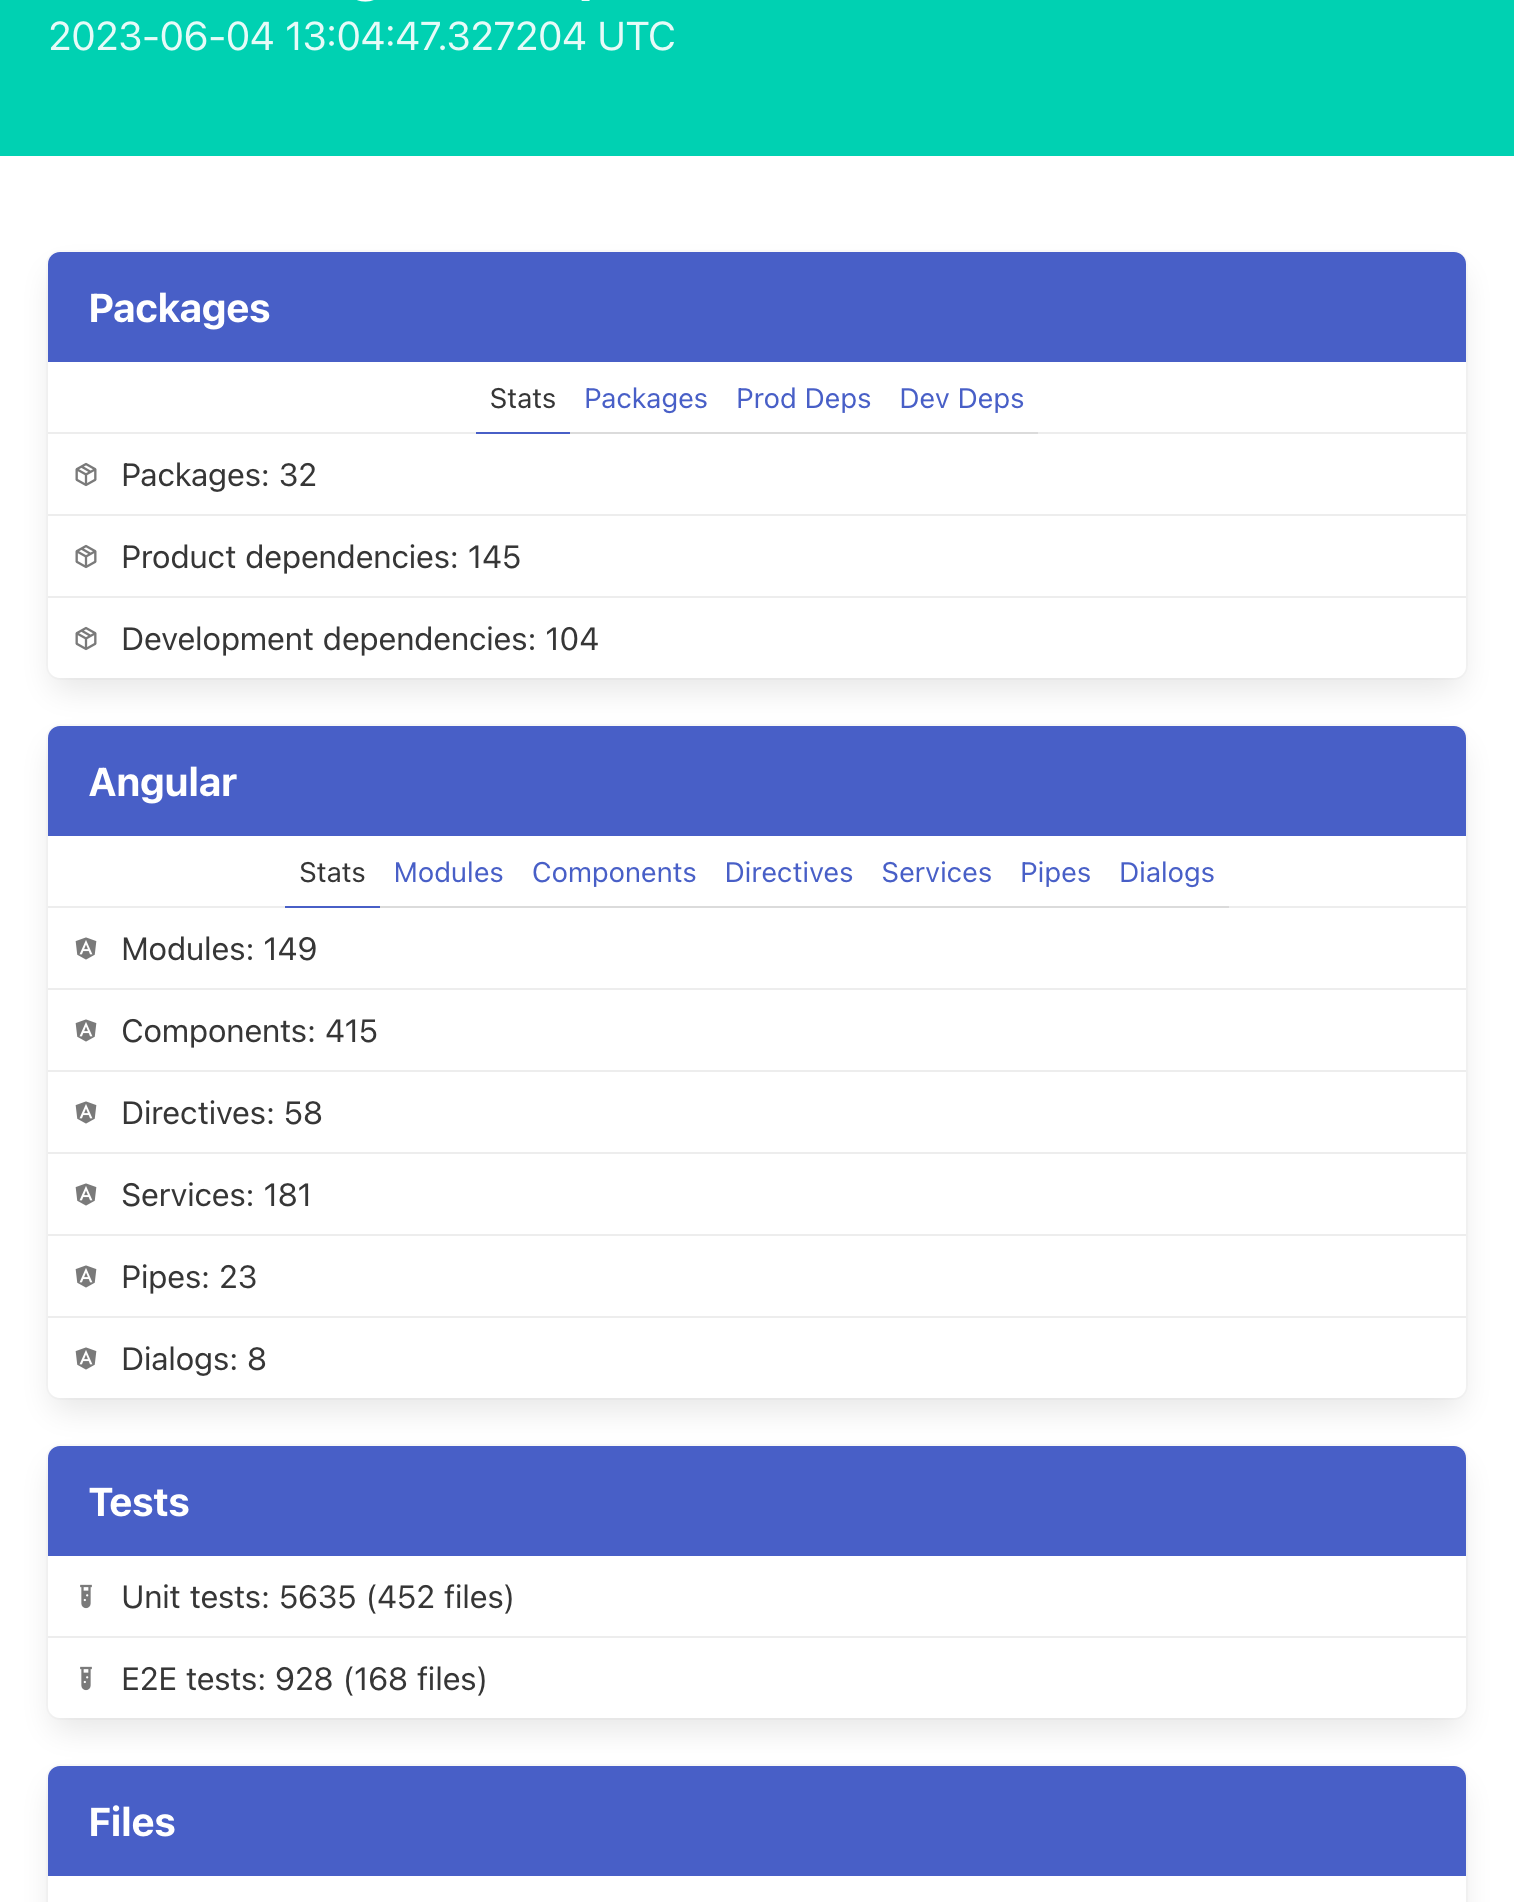
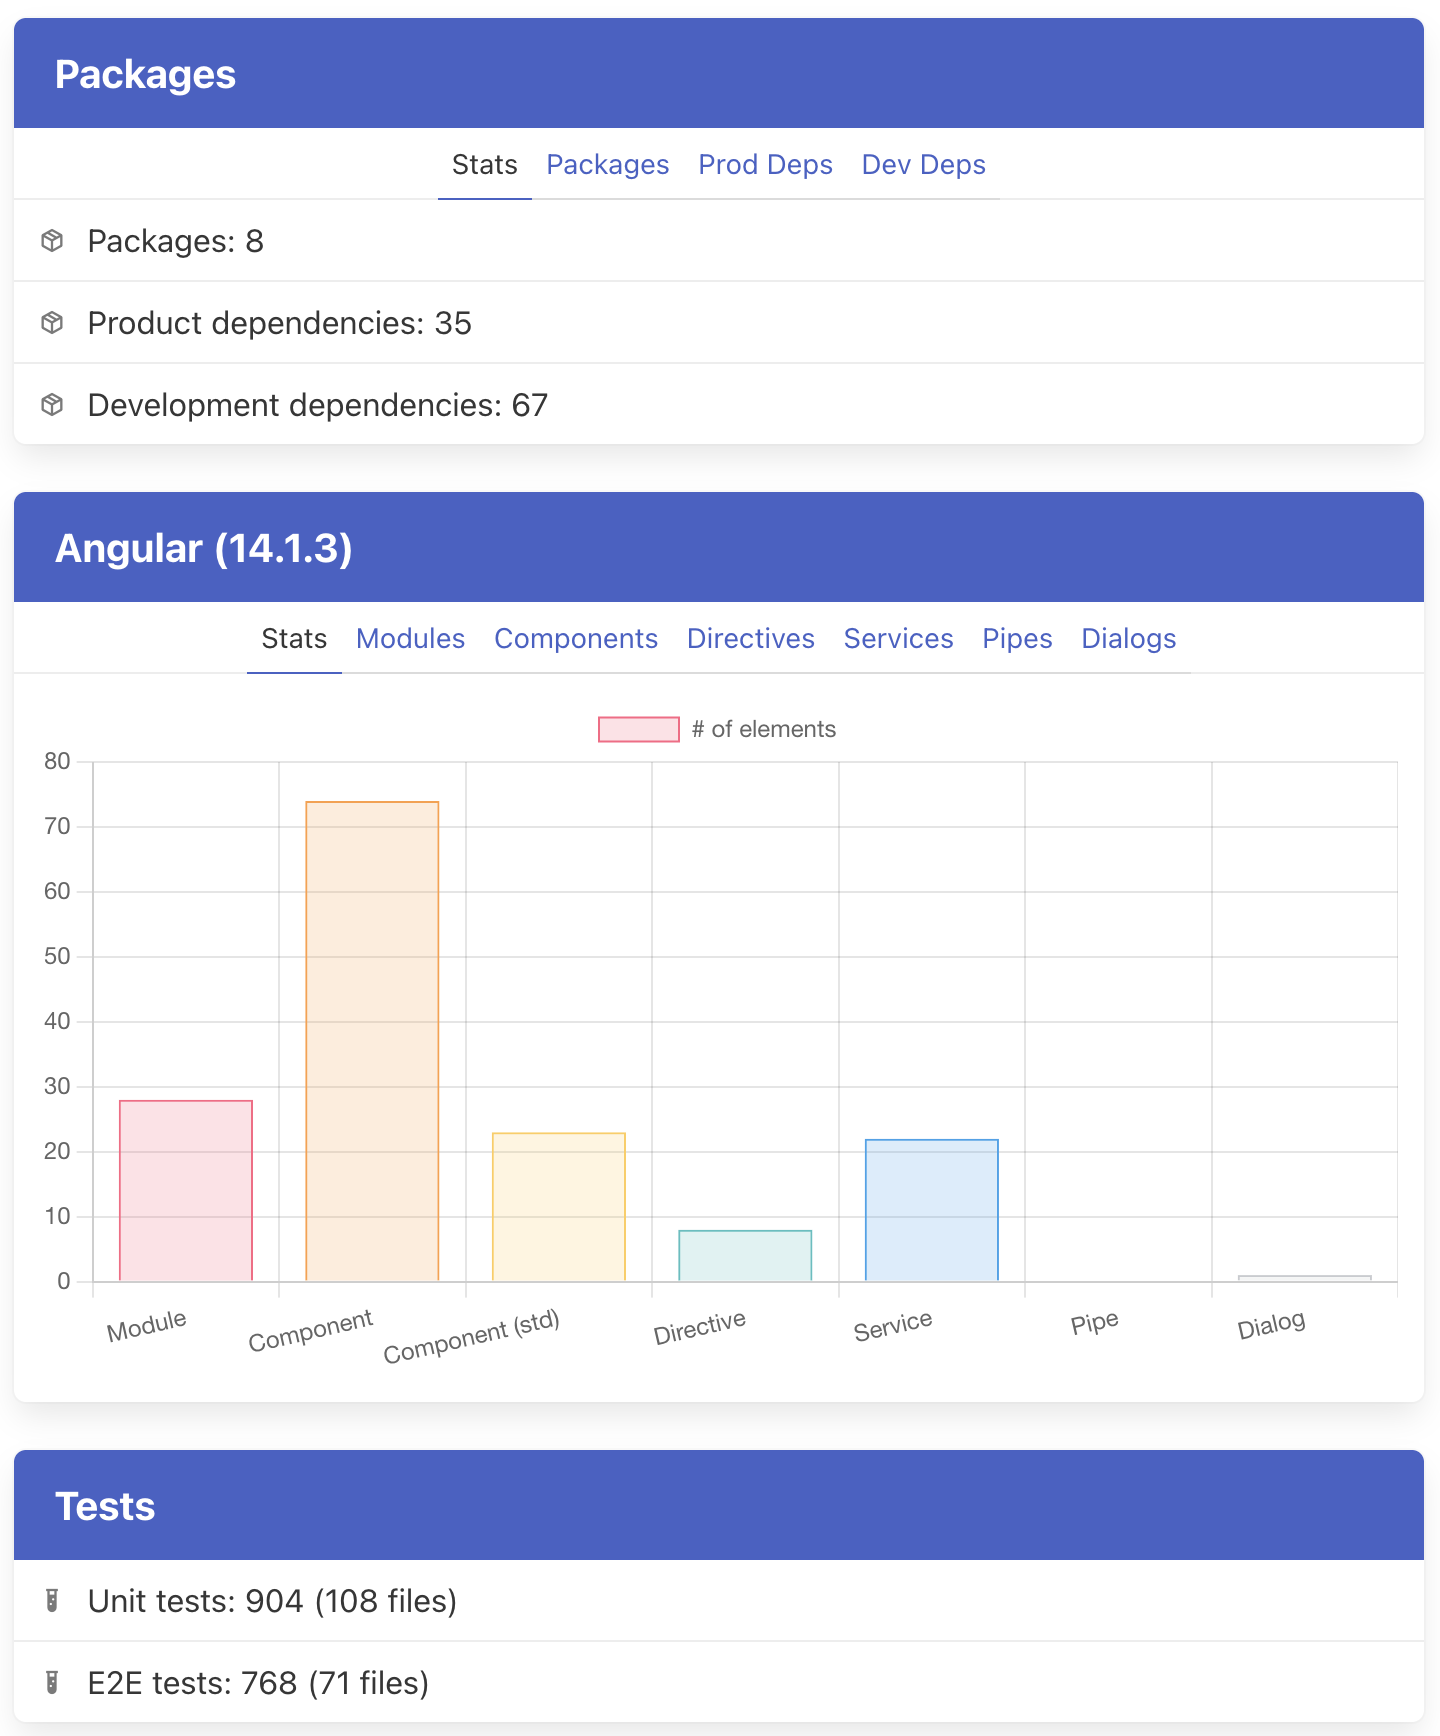
html: angular elements chart; closes #17

diff --git a/src/assets/html/index.html b/src/assets/html/index.html
@@ -4,11 +4,9 @@
     <title>BirdView</title>
     <meta charset="UTF-8"/>
     <meta name="viewport" content="width=device-width, initial-scale=1"/>
-    <link
-            rel="stylesheet"
-            href="https://cdn.jsdelivr.net/npm/bulma@0.9.4/css/bulma.min.css"
-    />
+    <link rel="stylesheet" href="https://cdn.jsdelivr.net/npm/bulma@0.9.4/css/bulma.min.css"/>
     <link rel="stylesheet" href="https://cdn.jsdelivr.net/npm/@mdi/font@7.2.96/css/materialdesignicons.min.css"/>
+    <script src="https://cdn.jsdelivr.net/npm/chart.js"></script>
     <script>
         // <birdview:DATA>
     </script>
@@ -146,6 +144,67 @@
         }
 
         class Angular extends ReportPanel {
+
+            setActiveTab(index) {
+                super.setActiveTab(index);
+
+                if (index === 0) {
+                    setTimeout(() => {
+                        this.setupChart();
+                    });
+                }
+            }
+
+            setupChart() {
+                const ctx = document.getElementById('angular-chart');
+                const angular = window.data.stats.angular;
+
+                new Chart(ctx, {
+                    type: 'bar',
+                    data: {
+                        labels: ['Module', 'Component', 'Component (std)', 'Directive', 'Service', 'Pipe', 'Dialog'],
+                        datasets: [{
+                            label: '# of elements',
+                            data: [
+                                angular.module,
+                                angular.component,
+                                angular.component_standalone,
+                                angular.directive,
+                                angular.service,
+                                angular.pipe,
+                                angular.dialog
+                            ],
+                            backgroundColor: [
+                                'rgba(255, 99, 132, 0.2)',
+                                'rgba(255, 159, 64, 0.2)',
+                                'rgba(255, 205, 86, 0.2)',
+                                'rgba(75, 192, 192, 0.2)',
+                                'rgba(54, 162, 235, 0.2)',
+                                'rgba(153, 102, 255, 0.2)',
+                                'rgba(201, 203, 207, 0.2)'
+                            ],
+                            borderColor: [
+                                'rgb(255, 99, 132)',
+                                'rgb(255, 159, 64)',
+                                'rgb(255, 205, 86)',
+                                'rgb(75, 192, 192)',
+                                'rgb(54, 162, 235)',
+                                'rgb(153, 102, 255)',
+                                'rgb(201, 203, 207)'
+                            ],
+                            borderWidth: 1
+                        }]
+                    },
+                    options: {
+                        scales: {
+                            y: {
+                                beginAtZero: true
+                            }
+                        }
+                    }
+                });
+            }
+
             getModules(data) {
                 const modules = data.angular.modules;
                 const git = data.project.git;
@@ -207,14 +266,17 @@
                 }));
             }
 
-            render(props, { activeTab }) {
-                const data = props.data;
+            render({ data }, { activeTab }) {
                 const angular = data.stats.angular;
                 const ngVersion = data.angular.framework;
 
+                setTimeout(() => {
+                    this.setupChart();
+                });
+
                 return html`
                     <nav class="panel is-link">
-                        <p class="panel-heading">Angular</p>
+                        <p class="panel-heading">Angular (${ngVersion})</p>
 
                         <p class="panel-tabs">
                             <a class="${ activeTab === 0 ? 'is-active' : null}" onClick="${() => this.setActiveTab(0)}">Stats</a>
@@ -227,14 +289,9 @@
                         </p>
 
                         ${activeTab === 0 && html`
-                            <${PanelRow} icon="mdi-file-code-outline" label="Angular: ${ngVersion}"/>
-                            <${PanelRow} icon="mdi-file-code-outline" label="Modules: ${angular.module}"/>
-                            <${PanelRow} icon="mdi-file-code-outline" label="Components: ${angular.component}"/>
-                            <${PanelRow} icon="mdi-file-code-outline" label="Components (standalone): ${angular.component_standalone}"/>
-                            <${PanelRow} icon="mdi-file-code-outline" label="Directives: ${angular.directive}"/>
-                            <${PanelRow} icon="mdi-file-code-outline" label="Services: ${angular.service}"/>
-                            <${PanelRow} icon="mdi-file-code-outline" label="Pipes: ${angular.pipe}"/>
-                            <${PanelRow} icon="mdi-file-code-outline" label="Dialogs: ${angular.dialog}"/>
+                            <div style="max-height: 400px; padding: 12px">
+                              <canvas id="angular-chart"></canvas>
+                            </div>
                         `}
 
                         ${activeTab === 1 && html`
@@ -309,6 +366,11 @@
 
         render(html`
             <${App} data=${window.data}/>`, document.body);
+    </script>
+    <script>
+        window.addEventListener("DOMContentLoaded", (event) => {
+            // on load handlers
+        });
     </script>
 </head>
 <body></body>
